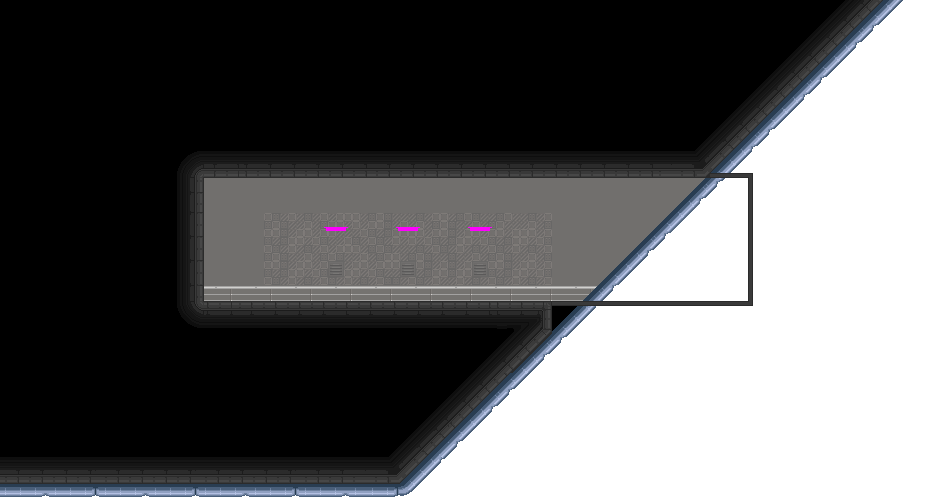
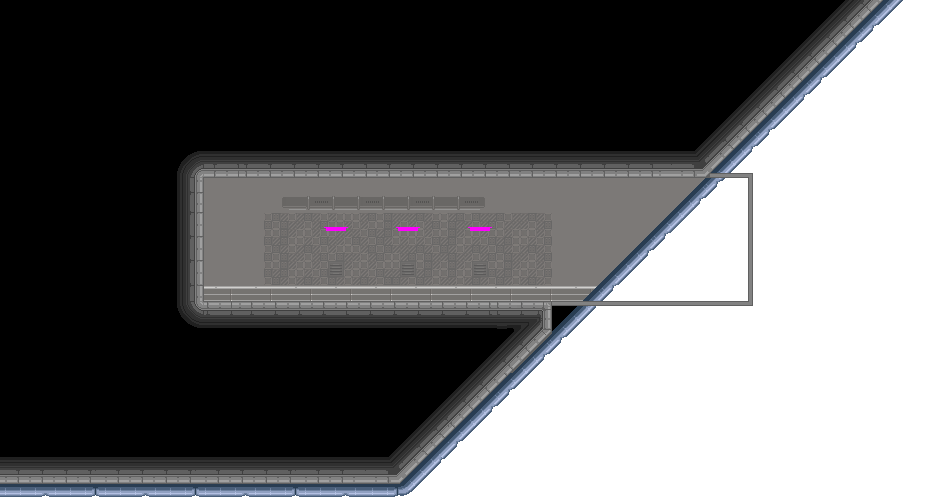
cli works

Changed region(s): [[0.0, 0.0, 0.9594, 0.996]]

diff --git a/stuff/html/lightgui.html b/stuff/html/lightgui.html
@@ -9,7 +9,7 @@ html {
 }
 
 body {
-	background: rgb(24, 62, 90);
+	background: black;
 	xpadding: 40px;
 	cursor: default;
 }
@@ -249,15 +249,23 @@ om\:cmd {
 	position: absolute;
 	bottom: 0;
   background: rgb(30, 41, 65);
+  background: rgb(102, 29, 29);
+  background: rgb(81, 29, 14);
+  background: rgb(30, 33, 37);
 	box-sizing: border-box;
 
 	font-family: Source Code Pro;
 	font-size: 12px;
+
+	color: whitesmoke;
 }
 
 om\:cmd om\:line {
-	display: block;
-	color: whitesmoke;
+  border-left: .5ch solid whitesmoke;
+  display: inline-block;
+  padding: 0 .5ch;
+  /* border-radius: 3px; */
+  margin-bottom: 1px;
 }
 
 om\:cmd om\:line[note] {
@@ -298,8 +306,8 @@ om\:cmd om\:line om\:block {
 	</om:notice>
 	
 	<om:cmd>
-		<om:line note>-~=\ cli /=~-</om:line>
-		<om:line>running world</om:line>
+		<om:line note>-~=\ cli /=~-</om:line><br />
+		<om:line>running world</om:line><br />
 		<om:line input><om:block>&nbsp;<om:/block></om:line>
 	</om:cmd>
 	

diff --git a/src/v8/include.js b/src/v8/include.js
@@ -1,0 +1,20 @@
+Handle<Value> Include(const Arguments& args) {
+    for (int i = 0; i < args.Length(); i++) {
+        String::Utf8Value str(args[i]);
+
+        // load_file loads the file with this name into a string,
+        // I imagine you can write a function to do this :)
+        std::string js_file = load_file(*str);
+
+        if(js_file.length() > 0) {
+            Handle<String> source = String::New(js_file.c_str());
+            Handle<Script> script = Script::Compile(source);
+            return script->Run();
+        }
+    }
+    return Undefined();
+}
+
+Handle<ObjectTemplate> global = ObjectTemplate::New();
+
+global->Set(String::New("include"), FunctionTemplate::New(Include));

diff --git a/stuff/html/fonts.html b/stuff/html/fonts.html
@@ -99,7 +99,8 @@ om\:font[cli] {
 }
 
 om\:font[cli] letter {
-	background: rgb(30, 41, 65);
+  background: rgb(30, 33, 37);
+	width: 7px;
 }
 
 </style>
@@ -124,7 +125,7 @@ glyphs = [
 		['a', 'b', 'c', 'd', 'e', 'f', 'g', 'h', 'i', 'j', 'k', 'l', 'm', 'n', 'o', 'p', 'q', 'r', 's', 't', 'u', 'v', 'w', 'x', 'y', 'z'],
 		['A', 'B', 'C', 'D', 'E', 'F', 'G', 'H', 'I', 'J', 'K', 'L', 'M', 'N', 'O', 'P', 'Q', 'R', 'S', 'T', 'U', 'V', 'W', 'X', 'Y', 'Z'],
 		['1', '2', '3', '4', '5', '6', '7', '8', '9', '0'],
-		[' ', '.', ',', '/', '\\', '\'', '"']
+		[' ', '.', ',', '/', '\\', '\'', '"', '-', '=', '~', '`', '%', '|', '_', '+', '-', '?', '!', '(', ')', '[', ']', '{', '}']
 ];
 
 foo = function() {

diff --git a/src/ap/world.cpp b/src/ap/world.cpp
@@ -12,19 +12,12 @@
 #include "emitter.h"
 #include "asteroid.h"
 
-#include "ais/chicken.h"
-#include "ais/tentacle.h"
-#include "objects/chair.h"
-#include "objects/table.h"
-#include "objects/console.h"
-
 #include "def.h"
 
 
 #include "shaders/FontVertexShader.txt"
 
 en::Region starsreg = (en::Region) { 0, 0, (int) (en::width), (int) (en::height) };
-en::Region *chickreg = new (en::Region) { 991, 503, 320, 100 };
 en::Region *leasurearea = new (en::Region) { 980, 242, 1190-980, 602-242 };
 //std::vector<en::Draws> stars;
 
@@ -150,7 +143,7 @@ void ap::World::step() {
 	glClearColor(1, 0, 1, 1);
 	glClear(GL_COLOR_BUFFER_BIT);
 	
-	stars->gdraws().rotate += en::delta * .5d;
+	//stars->gdraws().rotate += en::delta * .5d;
 	stars->gdraws().draw();
 	
 	// draw foreground
@@ -193,7 +186,7 @@ void ap::World::makestars() {
 	glBlendFuncSeparate(GL_SRC_ALPHA, GL_ONE_MINUS_SRC_ALPHA,GL_ONE,GL_ONE_MINUS_SRC_ALPHA);
 	//glBlendFunc(GL_SRC_ALPHA, GL_ONE_MINUS_SRC_ALPHA); // revert to standard blending
 	
-	for ( int i = 0; i < 2500; i ++ ) {
+	for ( int i = 0; i < 500; i ++ ) {
 		int x = ilrand() * stars->gw();
 		int y = ilrand() * stars->gh();
 		
@@ -254,29 +247,7 @@ void ap::World::load() {
 	//ply->nodraw = true;
 	this->add( ply ); // tiny willy
 
-	for ( int i = 0; i < 1; i ++ ) {
-		en::Region *r = new (en::Region) { 565, 503, 220, 100 };
-		ais::Tentacle *tentacle = new ais::Tentacle(r);
-		tentacle->sx((1500-1111)*2);
-		tentacle->sy((828-527-38)*2);
-		this->add(tentacle);
-	}
-	
-	for ( int i = 0; i < 1; i ++ ) {
-		chicken = new ais::Chicken(chickreg);
-		chicken->sx((1500-911)*2);
-		chicken->sy((828-527-17)*2);
-		chicken->delete_ = false;
-		this->add(chicken);
-	}
 
-	/*Sprite *radio = new Sprite(
-			en::GDEFAULT,
-			&textures::apexradio,
-			&regions::apexradio);
-	radio->sx((1500-911)*2);
-	radio->sy((828-527-17)*2);
-	add(radio);*/
 	
 	//LOG(ply->D->designation)
 	

diff --git a/src/ap/hangar.cpp b/src/ap/hangar.cpp
@@ -14,6 +14,8 @@
 
 #include "craft/craft.h"
 
+en::Region *chickreg = new (en::Region) { 991, 503, 320, 100 };
+
 
 ap::Hangar::Hangar()
 	: ap::Mover::Mover(
@@ -37,6 +39,11 @@ void ap::Hangar::step() {
 }
 
 void ap::Hangar::post() {
+
+	Sprite *hangarlight = new Sprite(en::GDEF, &textures::hangarlight, &regions::hangarlight);
+	hangarlight->sx((1514-911)*2);
+	hangarlight->sy((705-527)*2);
+	ap::world->lights.v.push_back(hangarlight);
 
 	grid = new craft::Grid(14, 5);
 	grid->sx(264*2+64);
@@ -90,6 +97,30 @@ void ap::Hangar::post() {
 	teacup->sx(1088);
 	teacup->sy(570-16);
 	ap::world->add(teacup);
+
+	/*for ( int i = 0; i < 1; i ++ ) {
+		en::Region *r = new (en::Region) { 565, 503, 220, 100 };
+		ais::Tentacle *tentacle = new ais::Tentacle(r);
+		tentacle->sx((1500-1111)*2);
+		tentacle->sy((828-527-38)*2);
+		this->add(tentacle);
+	}*/
+	
+	for ( int i = 0; i < 1; i ++ ) {
+		chicken = new ais::Chicken(chickreg);
+		chicken->sx((1500-911)*2);
+		chicken->sy((828-527-17)*2);
+		chicken->delete_ = false;
+		ap::world->add(chicken);
+	}
+
+	/*Sprite *radio = new Sprite(
+			en::GDEFAULT,
+			&textures::apexradio,
+			&regions::apexradio);
+	radio->sx((1500-911)*2);
+	radio->sy((828-527-17)*2);
+	add(radio);*/
 }
 
 /* ###########################
@@ -113,10 +144,7 @@ void ap::Hangar::post() {
 
 	//clawbase->dim(0, 0, regions::clawbase.w, regions::clawbase.h);
 	
-	/*Sprite *hangarlight = new Sprite(en::GDEF, &textures::hangarlight, &regions::hangarlight);
-	hangarlight->sx((1514-911)*2);
-	hangarlight->sy((705-527)*2);
-	ap::ap::world->lights.v.push_back(hangarlight);*/
+	/**/
 	
 	//clawbase->sap::world(false);
 	//ap::ap::world->sprites.push_back(clawbase);

diff --git a/src/ap/bulk.cpp b/src/ap/bulk.cpp
@@ -807,26 +807,31 @@ glyph gcli[] = {
 		{'Z', 1, 16, 11, 2, 2},
 
 		{'\0'},
-		{'1', 0, 38, 11, 2, 2},
-		{'2', 1, 38, 11, 2, 2},
-		{'3', 1, 38, 11, 2, 2},
-		{'4', 1, 38, 11, 2, 2},
-		{'5', 1, 38, 11, 2, 2},
-		{'6', 1, 38, 11, 2, 2},
-		{'7', 1, 38, 11, 2, 2},
-		{'8', 1, 38, 11, 2, 2},
-		{'9', 1, 38, 11, 2, 2},
-		{'0', 1, 38, 11, 2, 2},
+		{'1', 0, 32, 11, 2, 2},
+		{'2', 1, 32, 11, 2, 2},
+		{'3', 1, 32, 11, 2, 2},
+		{'4', 1, 32, 11, 2, 2},
+		{'5', 1, 32, 11, 2, 2},
+		{'6', 1, 32, 11, 2, 2},
+		{'7', 1, 32, 11, 2, 2},
+		{'8', 1, 32, 11, 2, 2},
+		{'9', 1, 32, 11, 2, 2},
+		{'0', 1, 32, 11, 2, 2},
 
 		{'\0'},
-		{' ', 0, 57, 11, 2, 2},
-		{'.', 1, 57, 11, 2, 2},
-		{',', 1, 57, 11, 2, 2},
-		{'/', 1, 57, 11, 2, 2},
-		{'\\', 1, 57, 11, 2, 2},
-		{'\'', 1, 57, 11, 2, 2},
-		{'"', 1, 57, 11, 2, 2}
-
+		{' ', 0, 48, 11, 2, 2},
+		{'.', 1, 48, 11, 2, 2},
+		{',', 1, 48, 11, 2, 2},
+		{'/', 1, 48, 11, 2, 2},
+		{'\\', 1, 48, 11, 2, 2},
+		{'\'', 1, 48, 11, 2, 2},
+		{'"', 1, 48, 11, 2, 2},
+		{'-', 1, 48, 11, 2, 2},
+		{'=', 1, 48, 11, 2, 2},
+		{'~', 1, 48, 11, 2, 2},
+		{'`', 1, 48, 11, 2, 2},
+		{'%', 1, 48, 11, 2, 2},
+		{'|', 1, 48, 11, 7, 7}
 
 };
 int lcli = sizeof(gcli) / sizeof(gcli[0]);

diff --git a/src/ap/cli.cpp b/src/ap/cli.cpp
@@ -10,14 +10,15 @@
 ap::CLI::CLI() : en::Draws(en::GDUMP, nullptr, &en::regfluke) ,
 	pane(nullptr)
 	{
-	sy(440);
+	sy(600-regions::clipane.h);
+	sh(regions::clipane.h);
 	pane = new Draws(en::GDUMP, nullptr, &regions::clipane);
 	pane->scolor(&colors::CLIPANE);
 	pane->sy(gy());
 	add(pane);
 
-	mention("cli");
-	mention("did i mention you were pretty? loooooool");
+	mention( "| -~=\\ cli /=~-" );
+	mention( "| running world" );
 }
 
 ap::CLI::~CLI() {
@@ -31,11 +32,18 @@ ap::CLI::~CLI() {
 	}}
 }
 
+void ap::CLI::slide() {
+
+}
+
 void ap::CLI::mention(const char *q) {
+	std::string* str = new std::string(q);
+
 	const Font &f = clifont; // alias
 
-	Text *t = new en::Text(en::GDUMP, f, &en::WHITE, q);
-	t->sy(gy()+10+(texts.size()*f.gh()));
+	Text *t = new en::Text(en::GDUMP, f, &en::WHITE, str->c_str());
+	int l = texts.size();
+	t->sy(gy()+10+(l*f.gh())+l);
 	t->sx(10);
 	t->position();
 	add(t);

diff --git a/src/ap/def.cpp b/src/ap/def.cpp
@@ -21,7 +21,7 @@ en::Texture textures::clifont("fonts/clifont.png");
 
 en::Texture textures::guipieces("guipieces.png");
 
-en::Texture textures::hangar("scenes/hangar_dark.png");
+en::Texture textures::hangar("scenes/hangar.png");
 en::Texture textures::hangarlight("lights/hangarlight.png");
 
 en::Texture textures::sheet("sheet.png");
@@ -131,7 +131,7 @@ en::Color colors::GREEN = {0,1,0};
 en::Color colors::BLUE = {0,0,1};
 en::Color colors::YELLOW = {1,1,0};
 
-en::Color colors::CLIPANE = {30/255.f, 41/255.f, 65/255.f};
+en::Color colors::CLIPANE = {30/255.f, 33/255.f, 37/255.f};
 
 en::Color colors::BLUEISH = {73/255.f, 83/255.f, 92/255.f};
 en::Color colors::MENUGREY = {31/255.f,31/255.f,31/255.f};

diff --git a/src/ap/cli.h b/src/ap/cli.h
@@ -4,6 +4,9 @@
 #include "../h.h"
 #include "../en/draws.h"
 
+#include <string>
+
+
 using namespace en;
 
 
@@ -17,6 +20,7 @@ namespace ap {
 		~CLI();
 
 		void mention(const char *);
+		void slide();
 	private:
 		Draws *pane;
 		

diff --git a/src/en/engine.cpp b/src/en/engine.cpp
@@ -207,7 +207,7 @@ void en::drawsstep() {
 		if ( d->remove ) {
 			//LOG("removing Draws in remove loop ")
 			it = draws.l.erase(it);
-			d->remove = false;
+			d->remove = false; // ?
 			if ( d->delete_ )
 				delete d;
 		}

diff --git a/src/en/text.cpp b/src/en/text.cpp
@@ -1,8 +1,11 @@
 #include <algorithm>
 
+#include "draws.h"
+#include "font.h"
 #include "text.h"
+
 //#include "shaders.h"
-#include "../ap/def.h"
+//#include "../ap/def.h" // ?
 
 using namespace en;
 

diff --git a/src/ap/ais/tentacle.cpp b/src/ap/ais/tentacle.cpp
@@ -12,7 +12,7 @@ ap::ais::Tentacle::Tentacle(en::Region *b) :
 	next(UNPOP),
 	current(CURRENT_NONE)
 	{
-	tip = "Wrmhgnn";
+	tip = "Hrmhnnn";
 	timetonext = en::dnow + 1000;
 }
 
